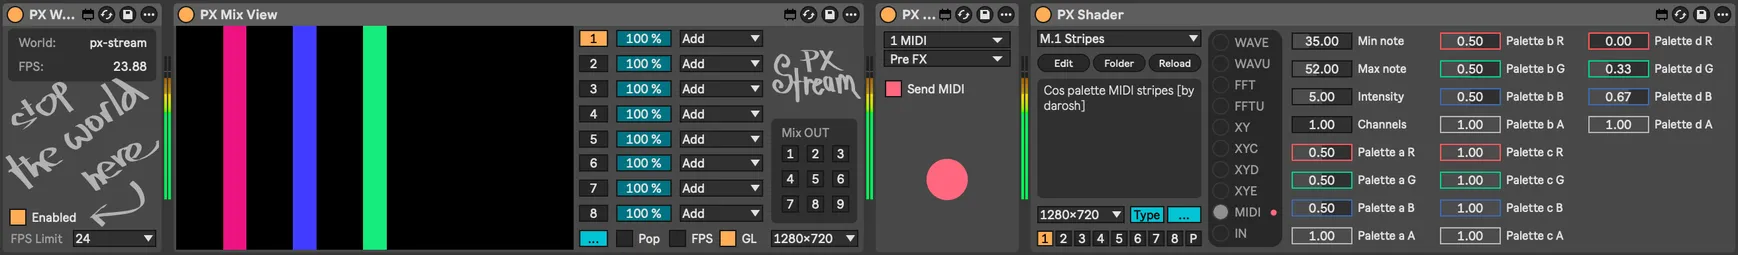
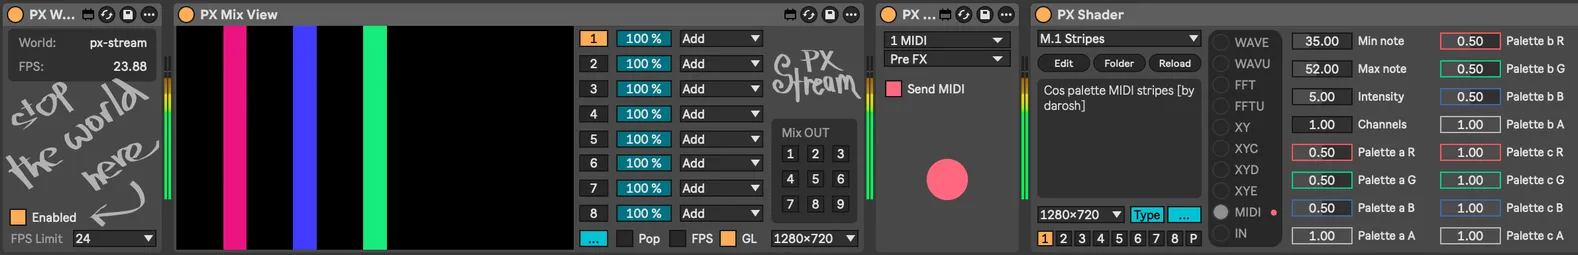
build reorg, using midi guide

diff --git a/scripts/screenshots.guide.conf.js b/scripts/screenshots.guide.conf.js
@@ -11,7 +11,8 @@ export default {
     [3, 'Using Mix Dry', 248 + 674 + 276 + 276 + 276 + 276 + 276 + 6 * 10],
     [4, 'Syphon streaming', 1050],
     [5, '_', 50, true],
-    [5, 'Using MIDI', 2624],
+    // [5, 'Using MIDI', 2624],
+    [5, 'Using MIDI', 248 + 674 + 276 + 276 + 276 + 276 + 276 + 6 * 10 + 20],
   ].map(([src, name, x1, exclude]) => {
       WIDTHS[src] = WIDTHS[src] || 14
       const r = [src, name, WIDTHS[src], x1, exclude]
